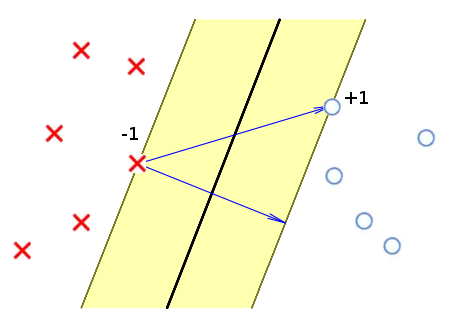
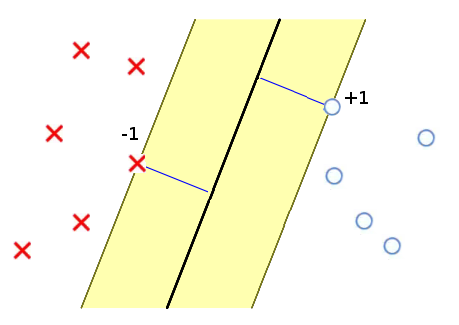
updated lecture 6

diff --git a/lecture6/ML-lecture6.tex b/lecture6/ML-lecture6.tex
@@ -90,7 +90,9 @@ $a(\mathbf{x}, \mathbf{w}) = sign(\langle \mathbf{w}, \mathbf{x}\rangle - w_0)$\
 \end{frame}
 
 \begin{frame}\frametitle{Линейно разделимая выборка}
-$\exists \mathbf{w}: M_i(\mathbf{w}, w_0) = y_i  (\langle \mathbf{w}, \mathbf{x_i} \rangle - w_0) > 0$, i=1, \dots , l\\
+Выборка линейно разделима, если отступ на каждом объекте положителен.\\
+\vspace{5mm}
+$\exists \mathbf{w}, w_0 : M_i(\mathbf{w}, w_0) = y_i  (\langle \mathbf{w}, \mathbf{x_i} \rangle - w_0) > 0$, i=1, \dots , l\\
 \end{frame}
 
 \begin{frame}\frametitle{Линейно разделимая выборка}
@@ -126,16 +128,16 @@ $\exists \mathbf{w}: M_i(\mathbf{w}, w_0) = y_i  (\langle \mathbf{w}, \mathbf{x_
 Разделяющая полоса: $\left\{\mathbf{x}: -1 \leq \langle \mathbf{w}, \mathbf{x}\rangle - w_0 \leq 1\right\}$\\
 Ширина разделяющей полосы?
 \begin{figure}[htbp]
-  \includegraphics[height=100pt, keepaspectratio = true]{images/linearly_separable}   
+  \includegraphics[height=100pt, keepaspectratio = true]{images/linearly_separable2}   
 \end{figure}
 \end{frame}
 
 \begin{frame}\frametitle{Оптимальная разделяющая гиперплоскость}
 Разделяющая полоса: $\left\{\mathbf{x}: -1 \leq \langle \mathbf{w}, \mathbf{x}\rangle - w_0 \leq 1\right\}$\\
-Ширина разделяющей полосы: $\frac{\langle \mathbf{x_{+}}, \mathbf{w} \rangle - \langle \mathbf{x_{-}}, \mathbf{w} \rangle}{\Vert \mathbf{w} \Vert} = \frac{2}{\Vert \mathbf{w} \Vert} \rightarrow \max$\\
+Ширина разделяющей полосы: $\frac{\langle \mathbf{x_{+}}, \mathbf{w} \rangle + \langle \mathbf{x_{-}}, \mathbf{w} \rangle}{\Vert \mathbf{w} \Vert} = \frac{2}{\Vert \mathbf{w} \Vert} \rightarrow \max$\\
 
 \begin{figure}[htbp]
-  \includegraphics[height=100pt, keepaspectratio = true]{images/linearly_separable}   
+  \includegraphics[height=100pt, keepaspectratio = true]{images/linearly_separable2}   
 \end{figure}
 \end{frame}
 
@@ -174,26 +176,6 @@ $\begin{cases}
 $ C \sum\limits_{i=1}^l (1 - M_i(\mathbf{w}, w_0)) + \frac{1}{2}\Vert \mathbf{w} \Vert^2 \rightarrow \min\limits_{\mathbf{w}}$
 \end{frame}
 
-\begin{frame}\frametitle{Вопрос}
-$ C \sum\limits_{i=1}^l (1 - M_i(\mathbf{w}, w_0)) + \frac{1}{2}\Vert \mathbf{w} \Vert^2 \rightarrow \min\limits_{\mathbf{w}}$\\
-\vspace{5mm}
-На что влияет параметр $C$?
-\end{frame}
-
-\begin{frame}\frametitle{Выбор параметра $C$}
-\begin{figure}[htbp]
-	\begin{minipage}{.5\textwidth}
-	  \includegraphics[height=120pt, keepaspectratio = true]{images/svm_reg} \\
-	  \centering Большой $C$\\ Слабая регуляризация\\
-    \end{minipage}%
-    \begin{minipage}{.5\textwidth}
-		\includegraphics[height=120pt, keepaspectratio = true]{images/svm_non_reg}   \\
-		\centering Маленький $C$\\ Сильная регуляризация\\
-	\end{minipage}%
-\end{figure}
-\textcolor{gray}{Пример из Python scikit-learn: http://scikit-learn.org/dev}
-\end{frame}
-
 \begin{frame}\frametitle{Минимизация эмпирического риска}
 ${Q(\mathbf{w}) = \sum\limits_{i=1}^l \left[ M_i(\mathbf{w}, w_0) < 0 \right] \leq\sum\limits_{i=1}^l \mathcal{L}(M_i(\mathbf{w}, w_0)) \rightarrow \min\limits_{\mathbf{w}} }$\\\vspace{3mm}
 Штраф за увеличение нормы вектора весов:\\
@@ -214,6 +196,26 @@ $ C\sum\limits_{i=1}^l (1 - M_i(\mathbf{w}, w_0)) + \frac{1}{2}\Vert \mathbf{w} 
 \item $S(M) = 2(1+e^M)^{-1}$ -- сигмоидная
 \item $V(M) = (1-M)_+$ -- кусочно-линейная
 \end{enumerate}
+\end{frame}
+
+\begin{frame}\frametitle{Вопрос}
+$ \sum\limits_{i=1}^l (1 - M_i(\mathbf{w}, w_0)) + \frac{1}{2C}\Vert \mathbf{w} \Vert^2 \rightarrow \min\limits_{\mathbf{w}}$\\
+\vspace{5mm}
+На что влияет параметр $C$?
+\end{frame}
+
+\begin{frame}\frametitle{Выбор параметра $C$}
+\begin{figure}[htbp]
+	\begin{minipage}{.5\textwidth}
+	  \includegraphics[height=120pt, keepaspectratio = true]{images/svm_reg} \\
+		\centering Маленький $C$\\ Сильная регуляризация\\
+    \end{minipage}%
+    \begin{minipage}{.5\textwidth}
+		\includegraphics[height=120pt, keepaspectratio = true]{images/svm_non_reg}   \\
+	  \centering Большой $C$\\ Слабая регуляризация\\
+	\end{minipage}%
+\end{figure}
+\textcolor{gray}{Пример из Python scikit-learn: http://scikit-learn.org/dev}
 \end{frame}
 
 \begin{frame}\frametitle{Условие Каруша-Куна-Такера}
@@ -243,34 +245,20 @@ M_i(\mathbf{w}, w_0) \geq 1 - \xi_i\\
 \vspace{5mm}
 Двойственная задача:\\
 $\begin{cases}
-\mathcal{L} = \frac{1}{2} \Vert w \Vert^2 - \sum\limits_{i = 1}^l \alpha_i (M_i(\mathbf{w}, w_0) - 1) - \sum\limits_{i = 1}^l \xi_i (\alpha_i + \eta_i - C)\\
-\xi_i \geq 0,   \alpha_i \geq 0,    \eta_i \geq 0\\
+\mathcal{L} = \frac{1}{2} \Vert w \Vert^2 - \sum\limits_{i = 1}^l \alpha_i (M_i(\mathbf{w}, w_0) - 1) - \sum\limits_{i = 1}^l \xi_i (\alpha_i + \mu_i - C)\\
+\xi_i \geq 0,   \alpha_i \geq 0,    \mu_i \geq 0\\
 \alpha_i = 0$ либо $M_i(\mathbf{w}, w_0) = 1 - \xi_i , i = 1, \dots, l\\
-\eta_i = 0 $ либо $\xi_i = 0, i = 1, \dots, l
+\mu_i = 0 $ либо $\xi_i = 0, i = 1, \dots, l
 \end{cases}$
 \end{frame}
 
 \begin{frame}\frametitle{Двойственная задача SVM}
-$\mathcal{L}(\mathbf{w}, w_0, \xi) = \frac{1}{2} \Vert \mathbf{w} \Vert^2 - \sum\limits_{i = 1}^l \alpha_i (M_i(\mathbf{w}, w_0) - 1) - \sum\limits_{i = 1}^l \xi_i (\alpha_i + \eta_i -C)$\\
+$\mathcal{L}(\mathbf{w}, w_0, \xi) = \frac{1}{2} \Vert \mathbf{w} \Vert^2 - \sum\limits_{i = 1}^l \alpha_i (M_i(\mathbf{w}, w_0) - 1) - \sum\limits_{i = 1}^l \xi_i (\alpha_i + \mu_i -C)$\\
 \vspace{5mm}
-$\frac{\partial \mathcal{L}}{\partial \mathbf{w}}  = \mathbf{w} - \sum\limits_{i=1}^l \alpha_iu_i\mathbf{x_i} = 0 $ \hspace{5mm} $\Rightarrow \mathbf{w} = \sum\limits_{i=1}^l \alpha_iu_i\mathbf{x_i} = 0$\\
+$\frac{\partial \mathcal{L}}{\partial \mathbf{w}}  = \mathbf{w} - \sum\limits_{i=1}^l \alpha_iy_i\mathbf{x_i} = 0 $ \hspace{5mm} $\Rightarrow \mathbf{w} = \sum\limits_{i=1}^l \alpha_iy_i\mathbf{x_i} = 0$\\
 $\frac{\partial \mathcal{L}}{\partial w_0} = - \sum\limits_{i=1}^l \alpha_iy_i = 0$ \hspace{12mm} $\Rightarrow \sum\limits_{i=1}^l \alpha_iy_i = 0$\\
-$\frac{\partial \mathcal{L}}{\partial \xi_i} = -\alpha_i - \eta_i + C = 0$ \hspace{6mm}  $\Rightarrow \eta_i + \alpha_i = C$\\
+$\frac{\partial \mathcal{L}}{\partial \xi_i} = -\alpha_i - \mu_i + C = 0$ \hspace{6mm}  $\Rightarrow \mu_i + \alpha_i = C$\\
 \end{frame}
-
-\begin{frame}\frametitle{Понятие опорного вектора}
-\begin{itemize}
-\item[--] $\alpha_i = 0$, $\eta_i = C$, $\xi_i = 0$, $M_i \geq 1$ -- неинформативные объекты
-\item[--] $0 < \alpha_i < C$, $0 < \eta_i < C$, $\xi_i = 0$, $M_i = 1$ -- опорные объекты
-\item[--] $\alpha_i = C$, $\eta_i = C$, $\xi_i > 0$, $M_i < 1$ -- опорные объекты-нарушители
-\end{itemize}
-
-\begin{figure}[htbp]
-  \includegraphics[height=100pt, keepaspectratio = true]{images/classification}   
-\end{figure}
-
-\end{frame}
-
 
 \begin{frame}\frametitle{Двойственная задача SVM}
 $\begin{cases}
@@ -293,10 +281,36 @@ $a(\mathbf{x}) = \sign(\sum\limits_{i=1}^l \alpha_iy_i \langle \mathbf{x_i}, \ma
 
 \end{frame}
 
+\begin{frame}\frametitle{Понятие опорного вектора}
+\begin{itemize}
+\item[--] $\alpha_i = 0$, $M_i \geq 1$ -- неинформативные объекты
+\item[--] $0 < \alpha_i < C$, $M_i = 1$ -- опорные объекты
+\item[--] $\alpha_i = C$, $M_i < 1$ -- опорные объекты-нарушители
+\end{itemize}
+
+\begin{figure}[htbp]
+  \includegraphics[height=100pt, keepaspectratio = true]{images/classification}   
+\end{figure}
+
+\end{frame}
+
+\begin{frame}\frametitle{Двойственная задача SVM}
+
+Решение исходной задачи выражается через решение двойственной:\\
+$\begin{cases}
+\mathbf{w} = \sum\limits_{i = 1}^l \alpha_iy_i\mathbf{x_i}\\
+w_0 = \langle \mathbf{w}, \mathbf{x_i} \rangle - y_i
+\end{cases}$\\
+\vspace{5mm}
+Линейный классификатор:\\
+$a(\mathbf{x}) = \sign(\sum\limits_{i=1}^l \alpha_iy_i \langle \mathbf{x_i}, \mathbf{x} \rangle - w_0)$
+
+\end{frame}
+
 \begin{frame}\frametitle{Kernel trick}
 $\langle \mathbf{x_i}, \mathbf{x} \rangle \rightarrow K(\mathbf{x_i}, \mathbf{x})$\\
 \vspace{5mm}
-$\psi: X \rightarrow H$, $H$ - гильбертово пространство\\
+$\psi: X \rightarrow H$, $H$ - Гильбертово пространство\\
 $K(\mathbf{x_i}, \mathbf{x}) = \langle \mathbf{\psi(x_i)}, \mathbf{\psi(x)} \rangle_H$
 \begin{itemize}
 \item[--] $K(\mathbf{x_i}, \mathbf{x}) = K(\mathbf{x}, \mathbf{x_i})$
